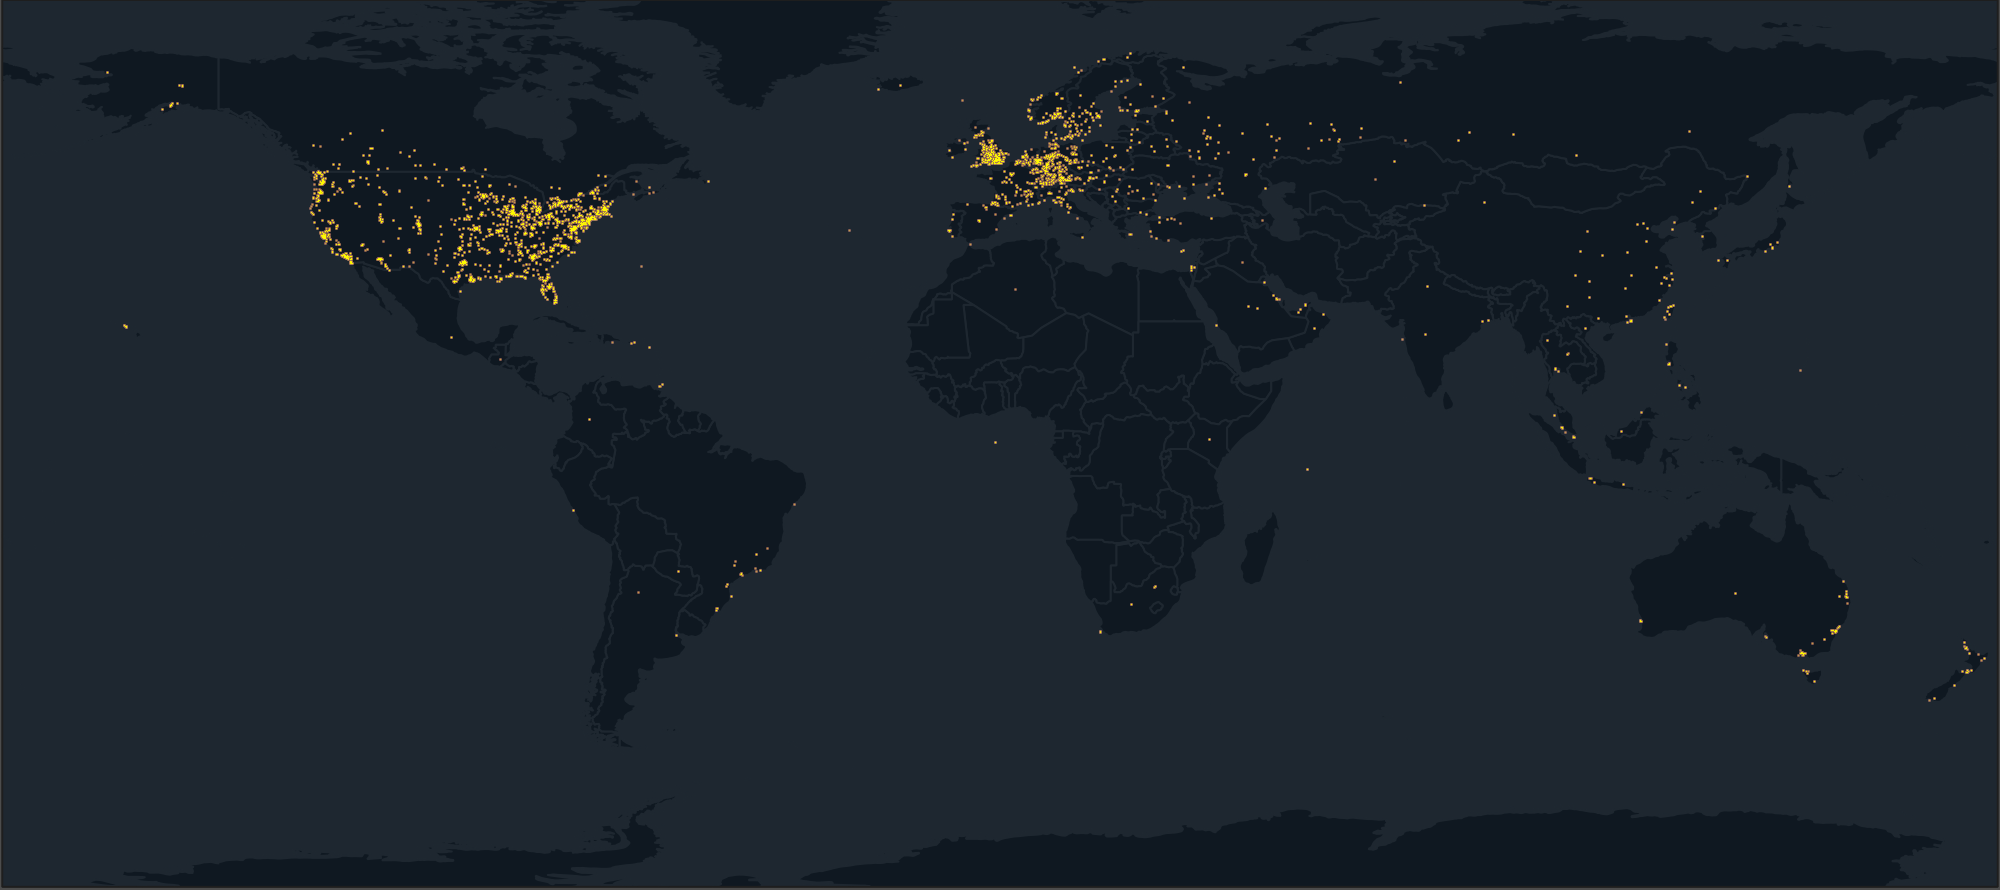
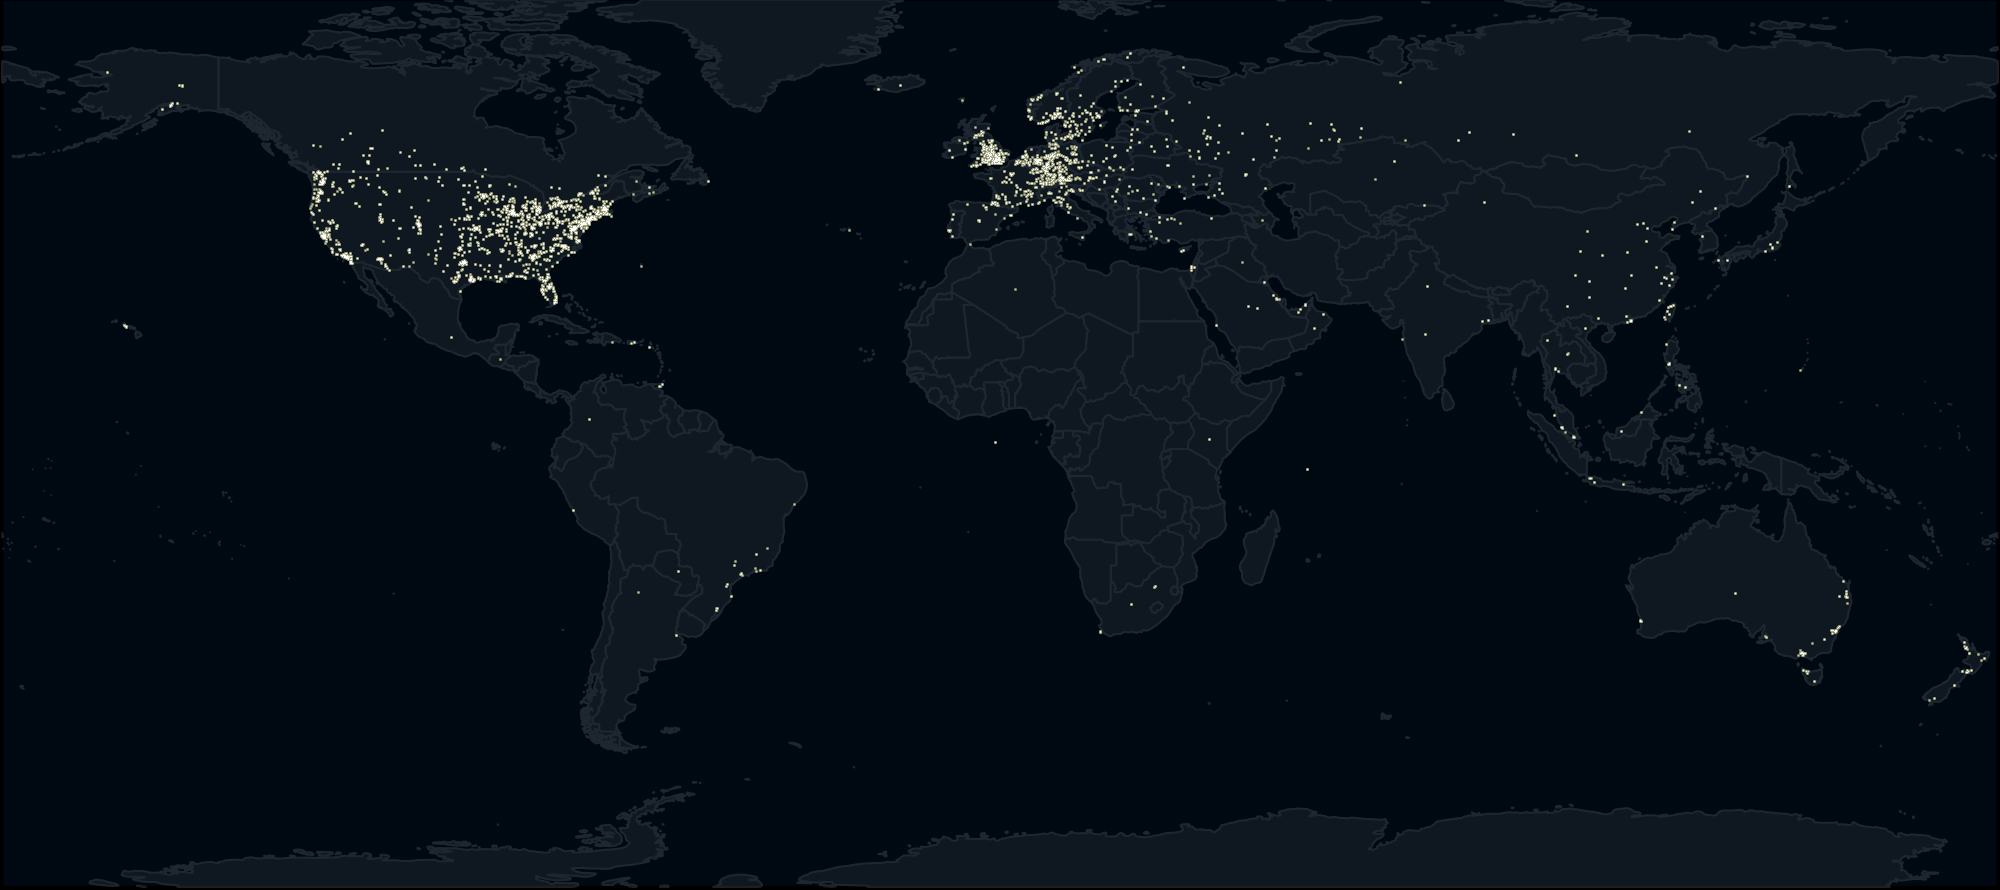
tweak color
tweak color

diff --git a/scripts/fahmap.py b/scripts/fahmap.py
@@ -476,8 +476,8 @@ class Extent():
 
 
 class ColorMap:
-    DEFAULT_HSVA_MIN_STR = '000ffff00'
-    DEFAULT_HSVA_MAX_STR = '02affffff'
+    DEFAULT_HSVA_MIN_STR = '02acfff00'
+    DEFAULT_HSVA_MAX_STR = '02a00ffff'
 
     @staticmethod
     def _str_to_float(string, base=16, maxval=256):
